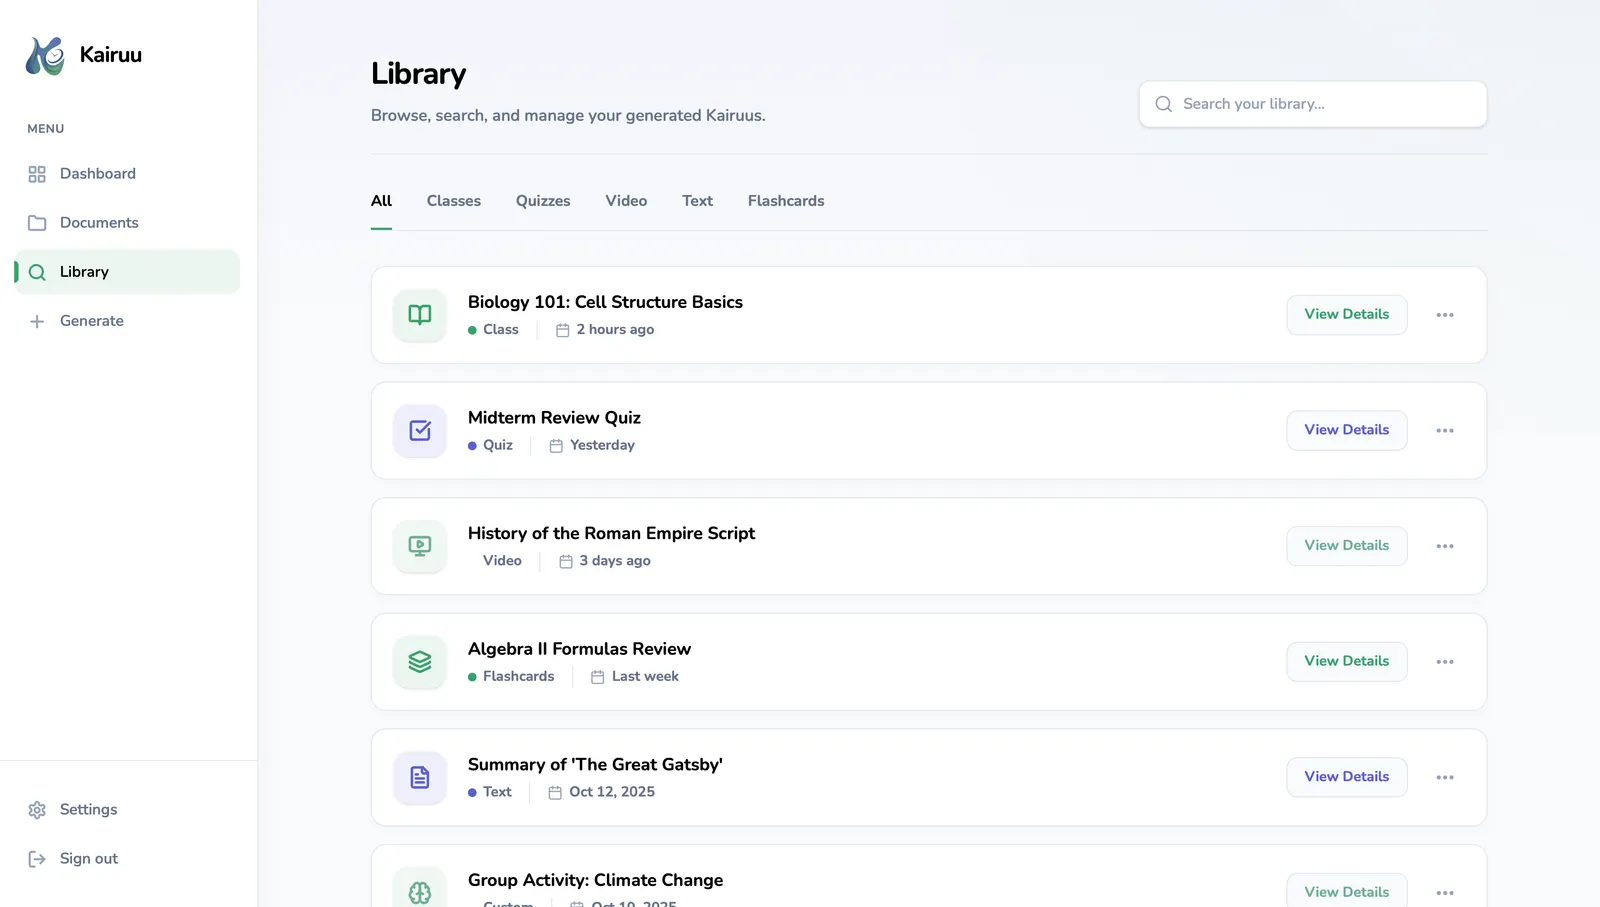
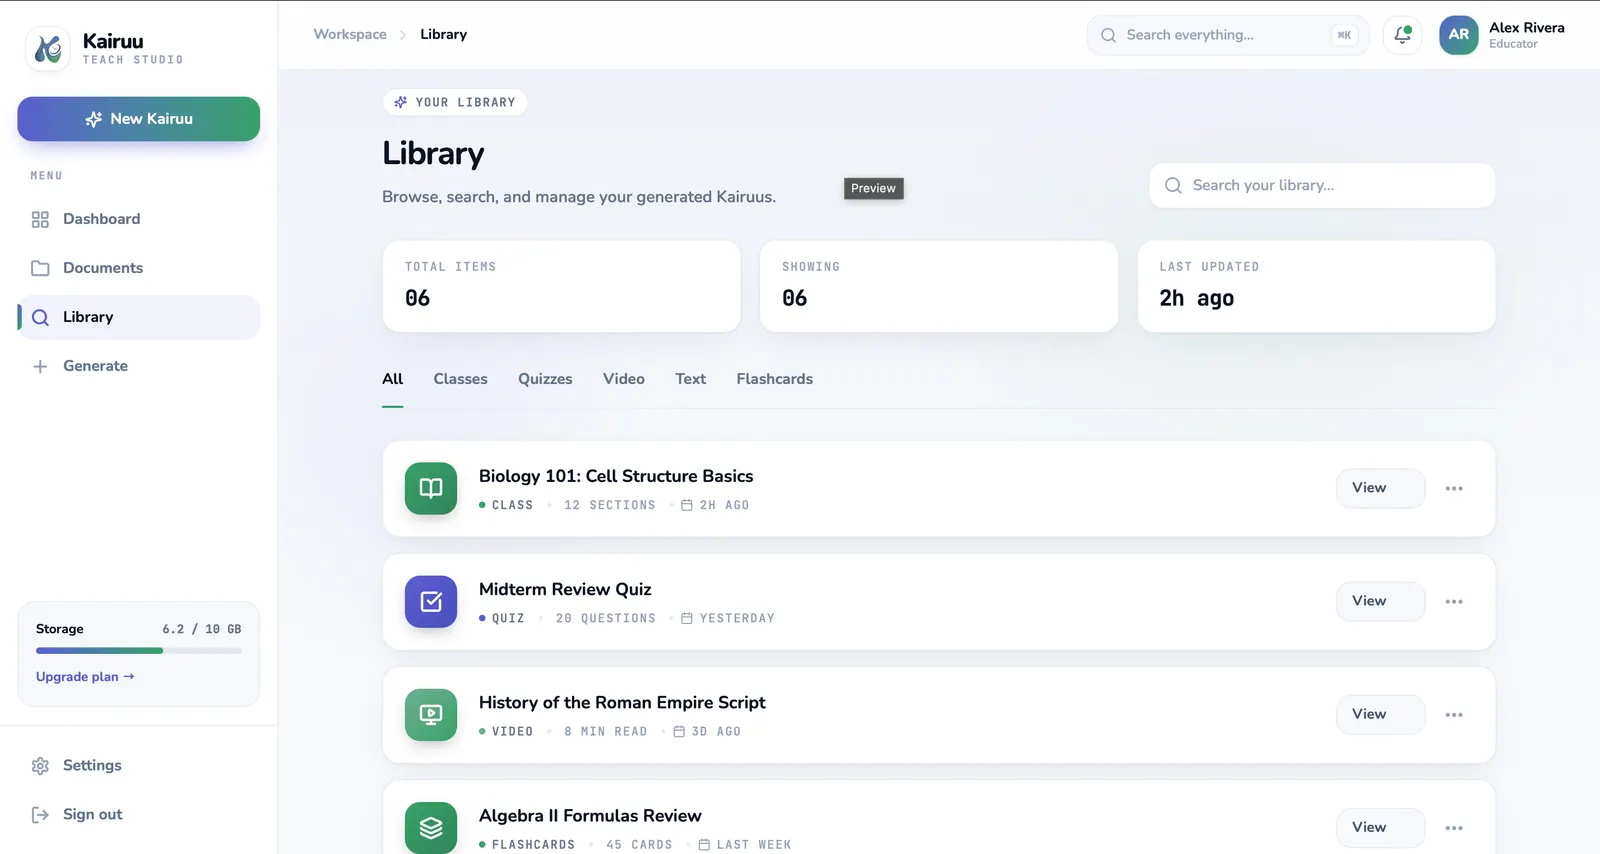
Kairuu: updated product screenshots
Replaces the gallery with the current build, which now includes a landing
page. Captions rewritten from what each screen actually shows.

diff --git a/src/data/media.ts b/src/data/media.ts
@@ -162,69 +162,85 @@ export const media = {
     "width": 1600,
     "height": 861
   },
-  "kairuu-documents": {
+  "kairuu-landing": {
     "variants": [
       {
-        "file": "kairuu-documents-800.webp",
+        "file": "kairuu-landing-800.webp",
         "width": 800,
-        "height": 454
+        "height": 427
       },
       {
-        "file": "kairuu-documents-1600.webp",
+        "file": "kairuu-landing-1600.webp",
         "width": 1600,
-        "height": 907
+        "height": 854
       }
     ],
     "width": 1600,
-    "height": 907
+    "height": 854
+  },
+  "kairuu-signin": {
+    "variants": [
+      {
+        "file": "kairuu-signin-800.webp",
+        "width": 800,
+        "height": 427
+      },
+      {
+        "file": "kairuu-signin-1600.webp",
+        "width": 1600,
+        "height": 854
+      }
+    ],
+    "width": 1600,
+    "height": 854
   },
   "kairuu-upload": {
     "variants": [
       {
         "file": "kairuu-upload-800.webp",
         "width": 800,
-        "height": 454
+        "height": 427
       },
       {
         "file": "kairuu-upload-1600.webp",
         "width": 1600,
-        "height": 907
+        "height": 854
       }
     ],
     "width": 1600,
-    "height": 907
-  },
-  "kairuu-resource": {
-    "variants": [
-      {
-        "file": "kairuu-resource-800.webp",
-        "width": 800,
-        "height": 454
-      },
-      {
-        "file": "kairuu-resource-1600.webp",
-        "width": 1600,
-        "height": 907
-      }
-    ],
-    "width": 1600,
-    "height": 907
+    "height": 854
   },
   "kairuu-library": {
     "variants": [
       {
         "file": "kairuu-library-800.webp",
         "width": 800,
-        "height": 454
+        "height": 427
       },
       {
         "file": "kairuu-library-1600.webp",
         "width": 1600,
-        "height": 907
+        "height": 854
       }
     ],
     "width": 1600,
-    "height": 907
+    "height": 854
+  },
+  "kairuu-resource": {
+    "variants": [
+      {
+        "file": "kairuu-resource-800.webp",
+        "width": 800,
+        "height": 427
+      },
+      {
+        "file": "kairuu-resource-1600.webp",
+        "width": 1600,
+        "height": 854
+      }
+    ],
+    "width": 1600,
+    "height": 854
   },
   "about-nobel": {
     "variants": [

diff --git a/src/content/work/kairuu.md b/src/content/work/kairuu.md
@@ -171,18 +171,19 @@ screens:
       - Upload and create, one click away.
 
 gallery:
+  - name: kairuu-landing
+    alt: The Kairuu landing page, headlined "Turn scattered files into ready-to-teach resources", with a preview of the library beside it.
+    caption: The promise, stated in the first line a teacher reads. Scattered files in, teachable material out.
   - name: kairuu-upload
-    alt: The upload screen, with a drag-and-drop area on the left and an AI-sorted folder structure on the right, awaiting confirmation.
-    caption: The AI sorts, then stops. Files are grouped into folders and nothing is filed until the teacher presses Confirm Structure, which is the whole principle in one button.
-  - name: kairuu-documents
-    alt: A Documents folder called Biology 101, listing files by name, date modified and size, with a drop area underneath.
-    caption: Files behave the way teachers already expect files to behave. Name, date, size, and somewhere obvious to drop more.
-  - name: kairuu-resource
-    alt: A generated lesson plan titled Biology 101, Cell Structure Basics, showing lesson objectives and a timed introduction section.
-    caption: A generated lesson, opened. Objectives, timings and content, all editable, because the teacher is the one who has to stand up and deliver it.
+    alt: The upload screen, with a large drop area accepting PDF, DOCX, PPTX and MP4, beside an organization panel waiting to be filled.
+    caption: One drop area, four file types, and a panel that stays empty until there is something to organise. The work starts before the teacher has to make a single decision.
   - name: kairuu-library
-    alt: The Library, listing generated resources with type filters for classes, quizzes, video, text and flashcards.
-    caption: Everything ever made, in one place, filtered by what it is rather than where it was saved.
+    alt: The library, showing total items and last updated, with type filters for classes, quizzes, video, text and flashcards.
+    caption: Everything ever made, filtered by what it is rather than where it was saved.
+  - name: kairuu-resource
+    alt: A generated lesson plan for Biology 101, showing lesson objectives and a timed introduction section.
+    caption: A generated lesson, opened. Objectives, timings and content, all editable, because the teacher is the one who has to stand up and deliver it.
+
 
 visual:
   idea: Calm enough to sit inside for an hour without noticing it.
